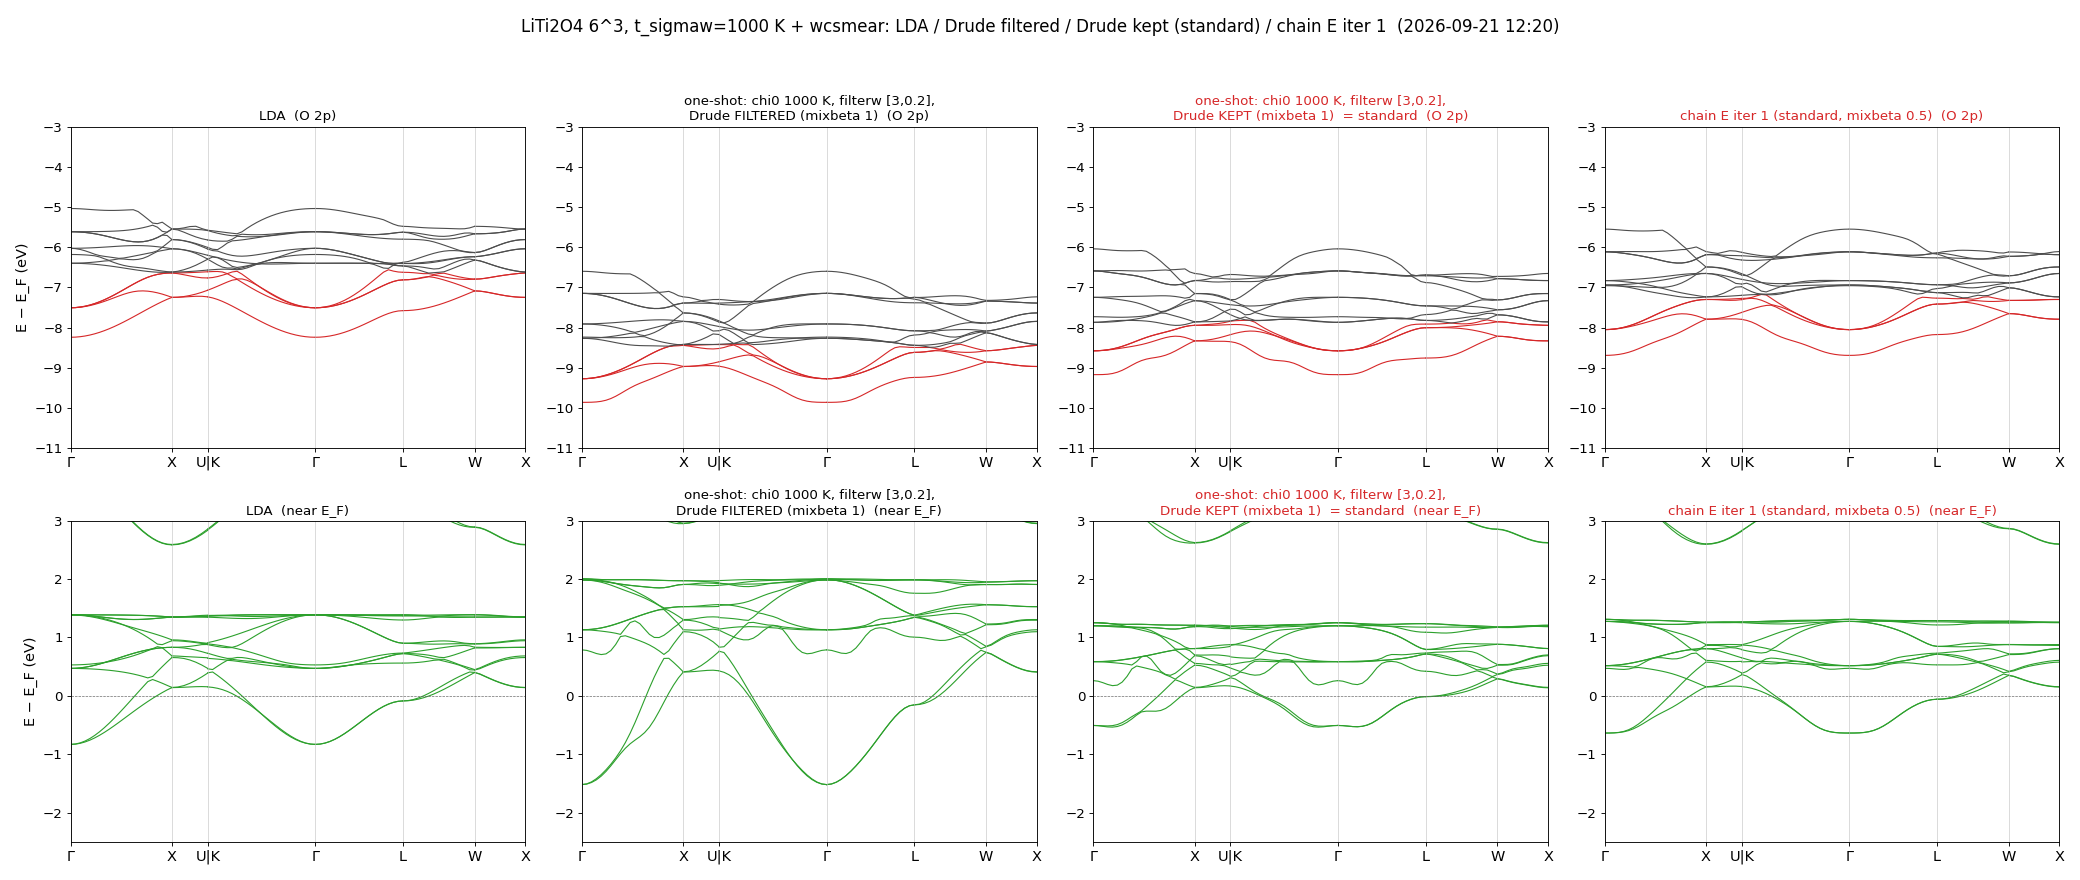
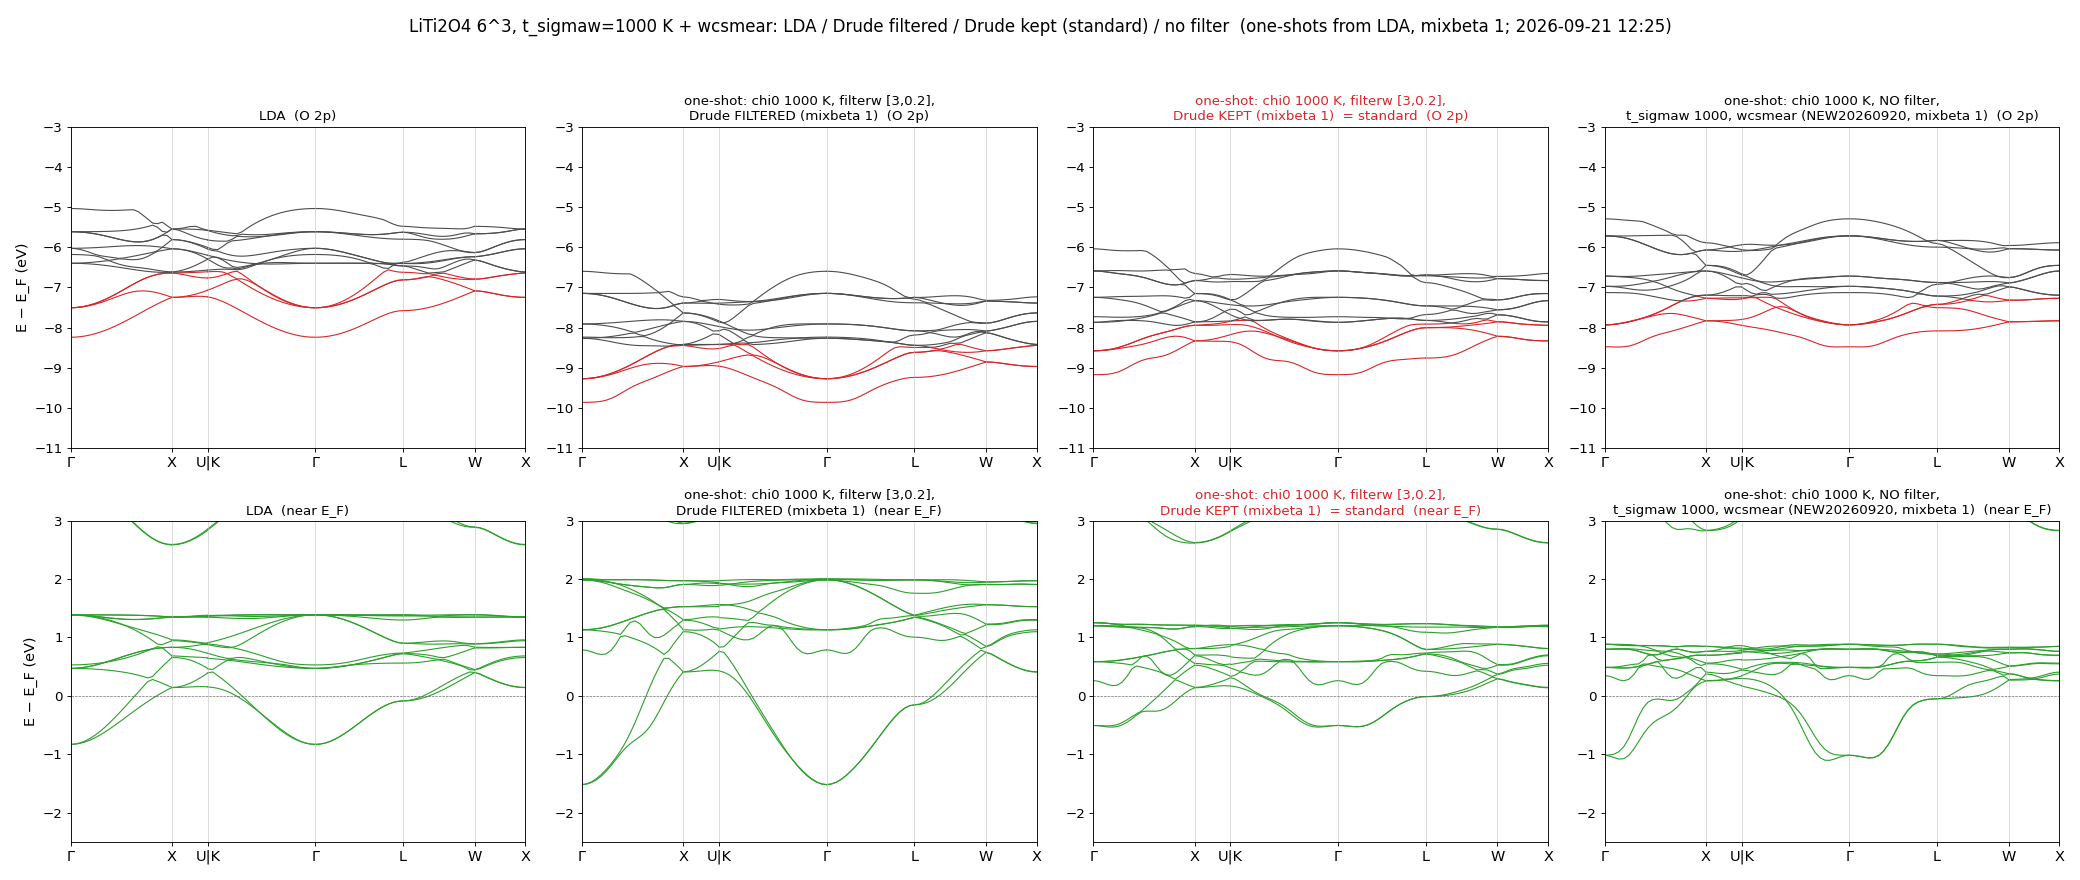
kBT: band figure right panel = no-filter one-shot; chain E stopped after iter 2

diff --git a/Samples/kBT/kBT_research.md b/Samples/kBT/kBT_research.md
@@ -27,11 +27,12 @@
   チェーン (E) の後に Drude 残しで再 dump（`dumpw_T1000_filt3_drude_v2`、キュー済み）。
 - チェーン (E)（標準案、6 反復）: 11:26 開始、iter 1 = 6.4 / 8.1 meV（11:53）。
 
-![LDA / Drude 落とす / Drude 残す（標準）/ (E) iter 1](LiTi2O4/plots/bands_standard_20260921.png)
+![LDA / Drude 落とす / Drude 残す（標準）/ フィルタなし](LiTi2O4/plots/bands_standard_20260921.png)
 
-一発（mixbeta 1）同士: Drude を落とすと t2g の帯幅が 3.5 eV（−1.5〜+2.0）まで広がり O 2p が −9.8 eV まで沈む。Drude 残す
-（標準）は t2g −0.5〜+1.25、O 2p 底 −9.2 で LDA に近い。(E) iter 1 は mixbeta 0.5 なのでその半分の変化（O 2p 底 −8.7、t2g −0.6〜+1.3）。
-どの一発も滑らか。
+一発（LDA から、mixbeta 1）4 枚: Drude を落とすと t2g の帯幅が 3.5 eV（−1.5〜+2.0）まで広がり O 2p が −9.8 eV まで沈む。
+Drude 残す（標準）は t2g −0.5〜+1.25、O 2p 底 −9.2。フィルタなし（NEW20260920、右端）は t2g −1.05〜+0.9、O 2p 底 −8.5 で、
+フィルタで抜いた帯間遮蔽の分だけ標準は t2g が上（+0.5 eV 級）・O 2p が下（−0.7 eV）。どの一発も滑らか。
+(E) は iter 2 まで（6.4 → 10.3 meV）で user 指示により 12:20 停止。次のチェーンは mixbeta 1.0（混合なし、user 指示）。
 
 ### 2026-09-21 10:50 user 判断: Drude（帯内）は W に残す。標準案 = Drude 残す + `chi0_filterw=[3,0.2]` + χ₀ 1000 K + `t_sigmaw=1000` + wcsmear
 
